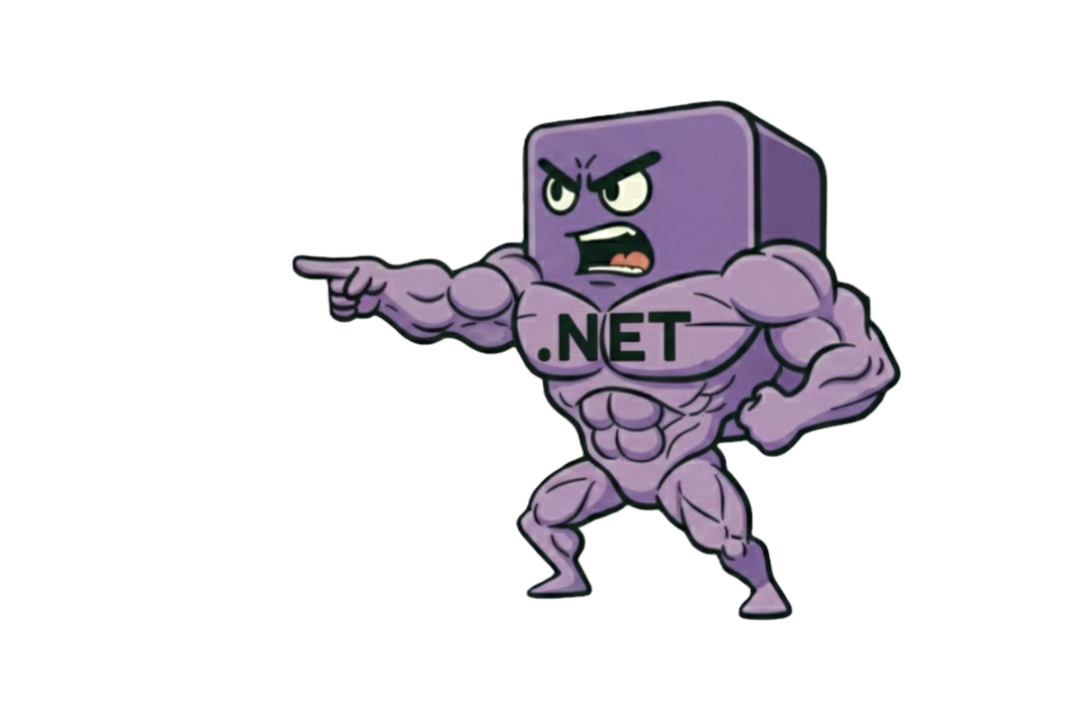
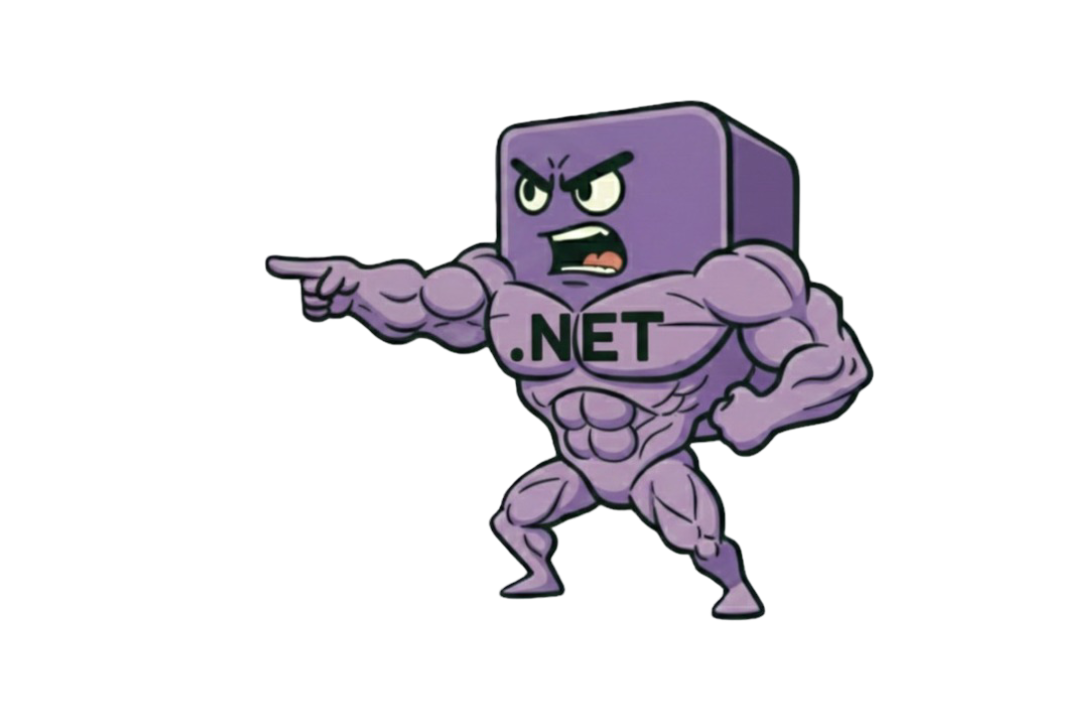
fix: adjust margins for fighting mascots in Hero component for better alignment

Changed region(s): [[0.2444, 0.1222, 0.8556, 0.8861]]

diff --git a/src/components/Hero.tsx b/src/components/Hero.tsx
@@ -107,9 +107,9 @@ const Hero = () => {
       </div>
 
       {/* Fighting Mascots Container with Enhanced Effects */}
-      <div className="absolute inset-0 flex items-center justify-between px-4 md:px-16 lg:px-24 pointer-events-none">
+      <div className="absolute inset-0 flex items-center justify-between pointer-events-none">
         {/* Node.js Muscular Mascot - Left Side */}
-        <div className="relative animate-fade-in-left group">
+        <div className="relative animate-fade-in-left group -ml-8 md:-ml-12 lg:-ml-16">
           <img 
             src="/images/left.png" 
             alt="Node.js Muscular Fighting Mascot" 
@@ -133,7 +133,7 @@ const Hero = () => {
         </div>
         
         {/* .NET Muscular Mascot - Right Side */}
-        <div className="relative animate-fade-in-right group">
+        <div className="relative animate-fade-in-right group -mr-8 md:-mr-12 lg:-mr-16">
           <img 
             src="/images/right.png" 
             alt=".NET Muscular Fighting Mascot" 
